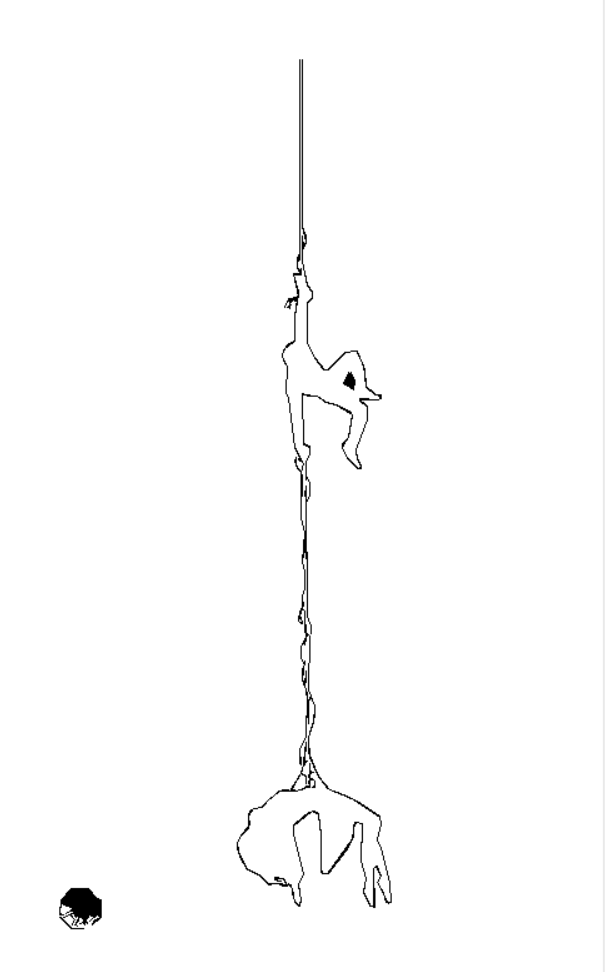
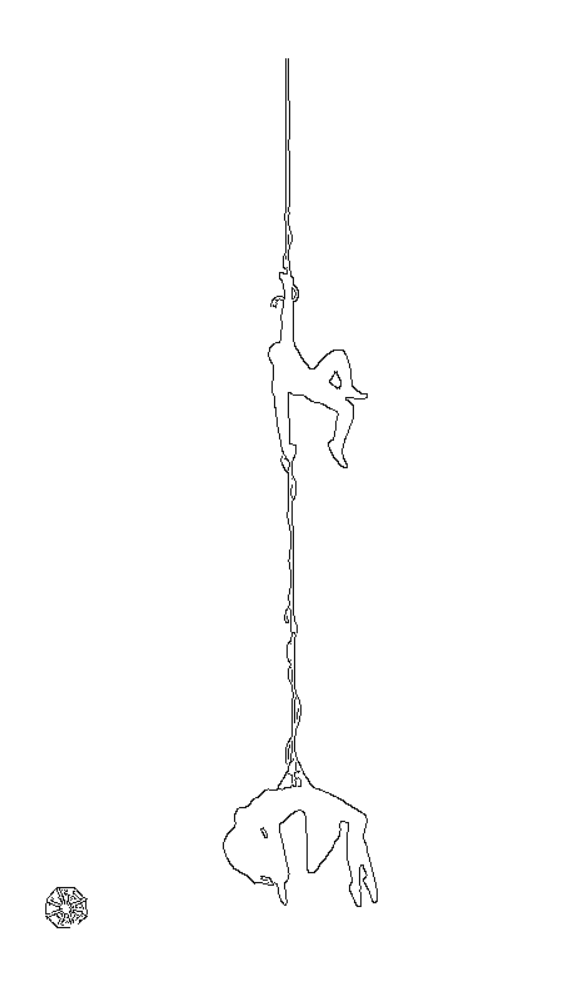
Describe your changes

Changed region(s): [[0.3686, 0.0617, 0.6451, 0.9259], [0.0614, 0.8951, 0.1843, 0.9568]]

diff --git a/spiderman.py b/spiderman.py
@@ -6,7 +6,7 @@ import time
 IMAGE = "spiderman.png"
 HEIGHT = 700
 UPDATE_EVERY = 1
-DELAY = 0.03
+DELAY = 0.008
 
 print("Spider-Man Contour Tracer")
 print("Loading image...")
